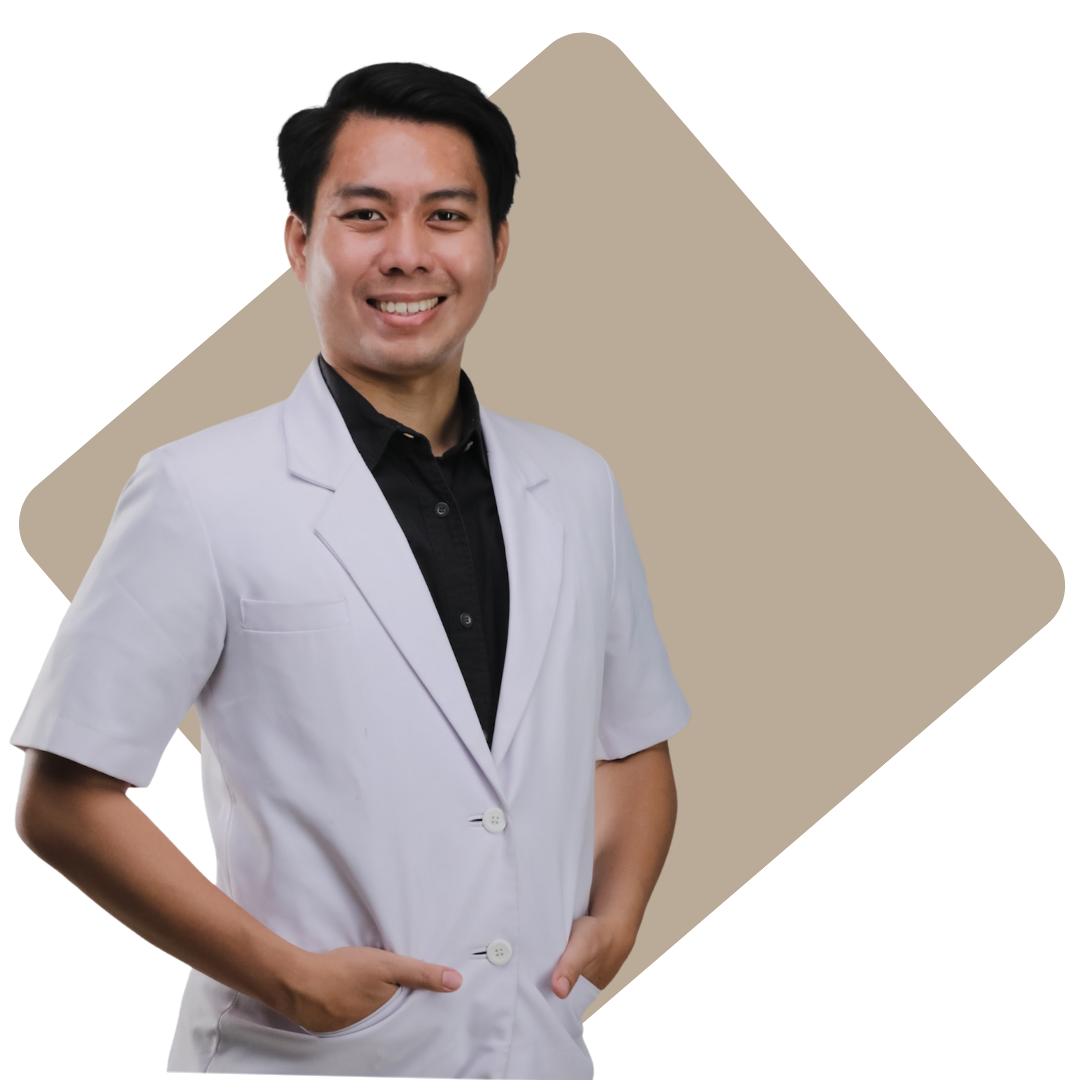
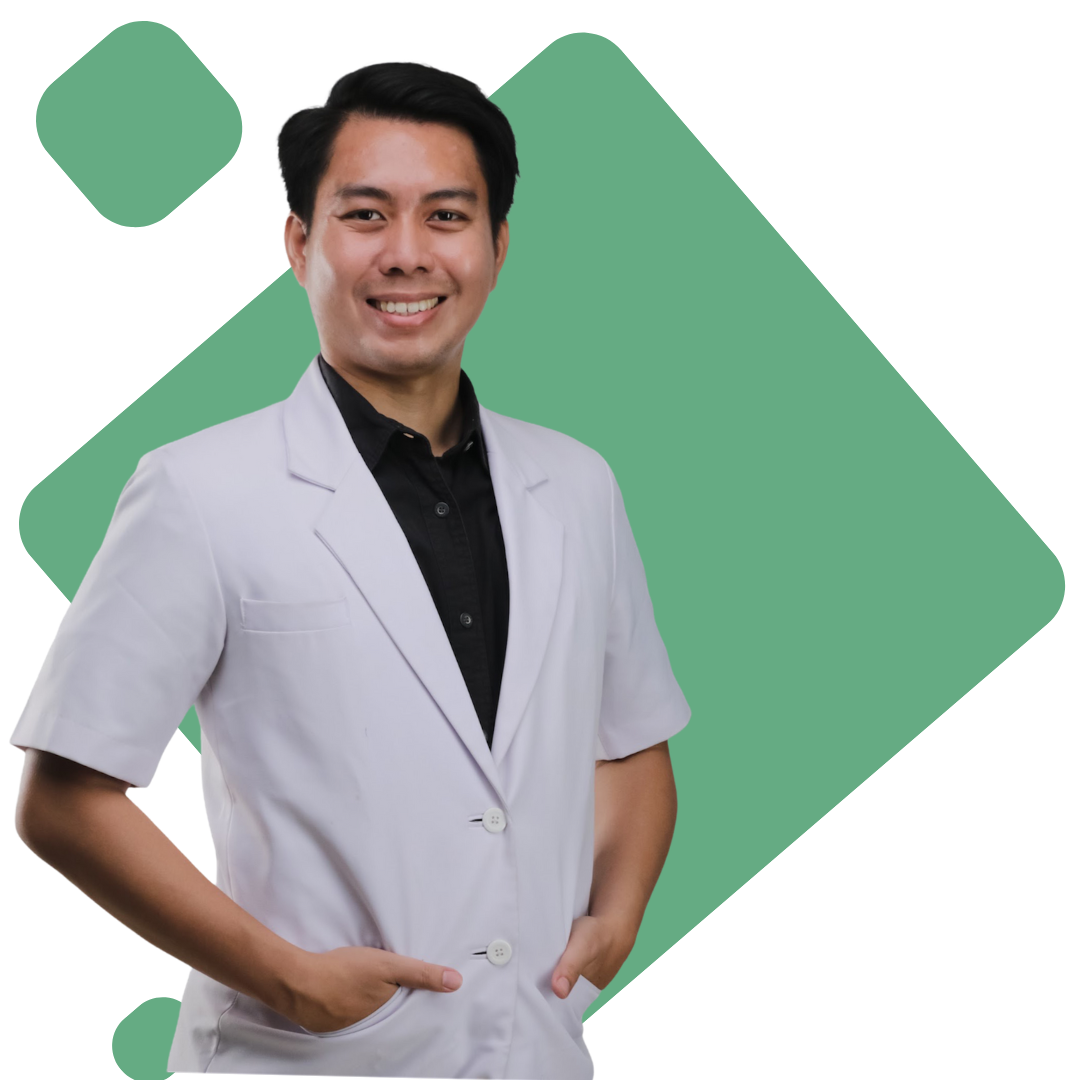
all done

diff --git a/style.css b/style.css
@@ -8,33 +8,38 @@ header {
     background-position: center;
 }
 
-.header-content-container {
-    padding: 2%;
-    display: flex;
-    justify-content: space-between;
-    align-items: center;
-}
-
 #title {
     font-size: 7vw;
     font-weight: 700;
     margin: 0;
-    color: white;
-    background-color: rgba(215, 138, 4, 0.644);
-    padding: 12px;
+    color: #65ab83;
     border-radius: 8px 8px 0 0;
-    font-family: 'Gill Sans', 'Gill Sans MT', Calibri, 'Trebuchet MS', sans-serif
+    font-family: 'Gill Sans', 'Gill Sans MT', Calibri, 'Trebuchet MS', sans-serif;
+    text-align: center;
 }
 
-#sub-title p {
+#sub-title {
     font-size: 2vw;
     font-family: system-ui, -apple-system, BlinkMacSystemFont, 'Segoe UI', Roboto, Oxygen, Ubuntu, Cantarell, 'Open Sans', 'Helvetica Neue', sans-serif;
     font-weight: 700;
-    text-align: right;
-    color: rgb(118, 30, 30);
-    background-color: rgba(215, 138, 4, 0.644);
-    padding: 8px;
+    text-align: center;
+    color: rgba(0, 0, 0, 0.547);
     border-radius: 8px 0 8px 0;
+}
+
+.timer-container {
+    text-align: center;
+    font-size: 32px;
+    font-family: Georgia, 'Times New Roman', Times, serif;
+    color: white;
+    background-color: #65ab83;
+    padding: 20px;
+}
+
+#timer>h4>span {
+    background-color: rgba(0, 0, 0, 0.547);
+    padding: 10px;
+    border-radius: 8px;
 }
 
 .intro-with-form {
@@ -53,12 +58,12 @@ header {
 
 .intro-text {
     position: absolute;
-    top: 13%;
-    left: 25%;
+    top: 18%;
+    left: 30%;
     width: 20%;
     font-size: 24px;
-    background-color: rgba(215, 138, 4, 0.644);
-    padding: 3% 5%;
+    background-color: #65ab83b3;
+    padding: 2% 2%;
     border-radius: 30%;
     text-align: right;
     color: white;
@@ -70,7 +75,7 @@ header {
 }
 
 #patient-name {
-    color: rgb(209, 220, 209);
+    color: white;
     font-size: 32px;
 
 }
@@ -97,16 +102,20 @@ textarea {
 
 #sign-up-btn {
     border: 0;
-    background-color: rgba(215, 138, 4, 0.644);
+    background-color: #65ab83;
     font-size: 22px;
     color: white;
+}
+
+#sign-up-btn:hover {
+    background-color: rgba(23, 39, 13, 0.734);
 }
 
 .testimonials-sec h2 {
     margin-top: 10%;
     font-size: 32px;
     text-align: center;
-    color: #888888;
+    color: #65ab83;
 }
 
 #testimonials {
@@ -117,11 +126,16 @@ textarea {
 }
 
 #testimonials div {
+    font-family: Georgia, 'Times New Roman', Times, serif;
     border: 1px solid lightgray;
     border-radius: 8px;
     padding: 20px;
     box-shadow: 5px 10px 18px #888888;
 
+}
+
+#testimonials div h3 {
+    color: #65ab83;
 }
 
 #testimonials img {
@@ -182,5 +196,11 @@ textarea {
 
         grid-template-columns: repeat(1, 1fr);
 
+    }
+}
+
+@media screen and (min-width: 689px) and (max-width: 1300px) {
+    .intro-text {
+        width: 30%;
     }
 }

diff --git a/index.js b/index.js
@@ -24,4 +24,25 @@ function showData(reviews) {
     document.getElementById('testimonials').innerHTML = singleReview;
 }
 
+function timer() {
+    const end = new Date("aug 25, 2022 10:00:00").getTime();
+
+
+
+
+    const tickingTimer = setInterval(() => {
+        const start = new Date().getTime();
+        const diff = end - start;
+        const days = Math.floor(diff / (24 * 60 * 60 * 1000));
+        const hrs = Math.floor((diff % (24 * 60 * 60 * 1000)) / (60 * 60 * 1000));
+        const mins = Math.floor((diff % (60 * 60 * 1000)) / (60 * 1000));
+        const sec = Math.floor((diff % (1000 * 60)) / 1000);
+
+        document.getElementById('timer').innerHTML = `<h4> <span>${days} d</span> : <span>${hrs} h</span> : <span>${mins} m</span> : <span>${sec} s</span></h4>`
+    });
+
+
+}
+timer();
+
 

diff --git a/index.html b/index.html
@@ -13,14 +13,17 @@
     <header>
         <div class="header-content-container">
             <h1 id="title">Green Circle</h1>
-            <div id="sub-title">
-                <p>Free</p>
-                <p>Consultation</p>
-                <p>Camp</p>
-            </div>
+            <p id="sub-title">Free cancer consultation camp</p>
         </div>
     </header>
     <main>
+        <section class="timer-container">
+            <h3>Registratation closing in</h3>
+            <div id="timer">
+
+            </div>
+
+        </section>
         <section class="intro-with-form">
             <div class="intro">
                 <img src="images/doctor.png" alt="">
